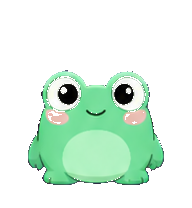
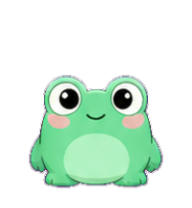
chore: Repackage pet sprites with soft matte edges

Changed region(s): [[0.125, 0.3173, 0.875, 0.9231], [0.3125, 0.6058, 0.6875, 0.7788], [0.4375, 0.5192, 0.5625, 0.5769]]

diff --git a/apps/web/components/Intro.tsx b/apps/web/components/Intro.tsx
@@ -321,8 +321,8 @@ export default function Intro() {
                   position: "absolute",
                   left: c.left,
                   top: c.top,
-                  width: "160px",
-                  height: "120px",
+                  width: "220px",
+                  height: "170px",
                   "--i": c.i,
                   color: c.color,
                   "--away":
@@ -352,11 +352,17 @@ export default function Intro() {
                     position: "absolute",
                     left: "50%",
                     top: "50%",
-                    transform: "translate(-50%,-50%) scale(var(--pPet,0))",
+                    transform:
+                      "translate(-50%,-50%) scale(calc(0.68 + var(--pPet,0) * 0.32))",
                     opacity: "var(--pPet,0)",
                   }}
                 >
-                  <PetAvatar pet={c.pet} size="xl" status={c.status} />
+                  <PetAvatar
+                    pet={c.pet}
+                    size="xl"
+                    status={c.status}
+                    style={{ width: 136, height: 136 }}
+                  />
                 </div>
               </div>
             ))}
